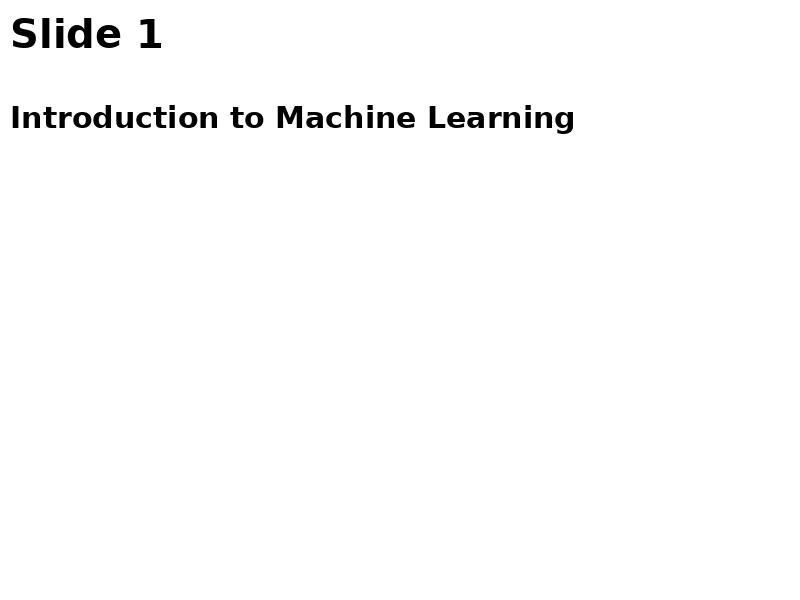
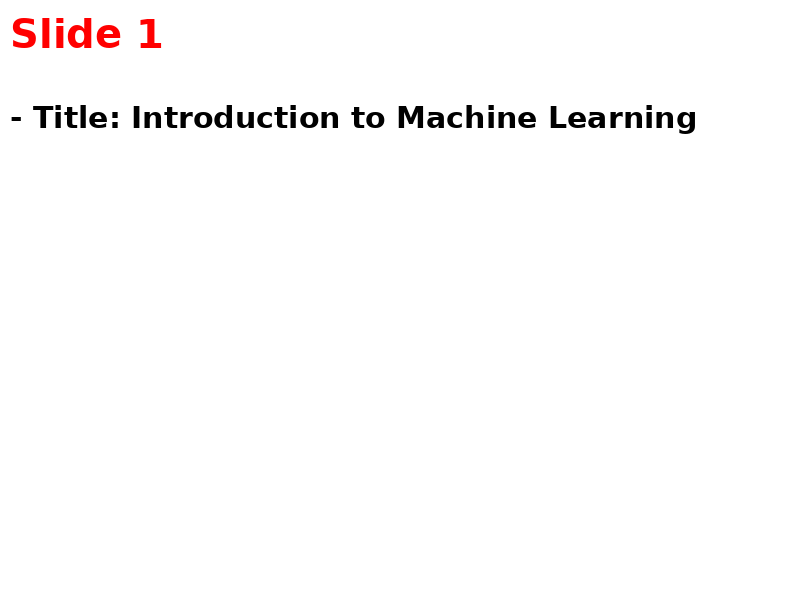
refactored

Changed region(s): [[0.0, 0.18, 0.875, 0.24], [0.0, 0.03, 0.2188, 0.09]]

diff --git a/slideGeniusApp/views.py b/slideGeniusApp/views.py
@@ -14,22 +14,15 @@ def generate_presentation(topic, num_slides):
             model="gpt-3.5-turbo",
             messages=[
                 {"role": "system", "content": "You are a helpful assistant."},
-                {"role": "user", "content": f"Create a summary presentation about '{topic}' consisting of {num_slides} slides."}
+                {"role": "user", "content": f"Create a summary presentation about '{topic}' consisting of {num_slides} slides with titles and bullet points."}
             ],
             max_tokens=1000,
             temperature=0.1
         )
-        slides_content = response.choices[0].message['content'].strip().split('\n')
+        slides_content = response.choices[0].message['content'].strip().split('\n\n')
 
         prs = Presentation()
         slide_layout = prs.slide_layouts[1]
-
-        for slide_content in slides_content:
-            if ':' in slide_content:
-                title, content = slide_content.split(':', 1)
-                slide = prs.slides.add_slide(slide_layout)
-                slide.shapes.title.text = title.strip()
-                slide.placeholders[1].text = content.strip()
 
         # Ensure the media directory exists
         media_dir = settings.MEDIA_ROOT
@@ -41,18 +34,48 @@ def generate_presentation(topic, num_slides):
         title_font = ImageFont.truetype(font_path, 40)  # Increase font size for title
         content_font = ImageFont.truetype(font_path, 30)  # Increase font size for content
 
-        # Convert slides to images
         slide_image_paths = []
-        for i, slide in enumerate(prs.slides):
-            image_path = os.path.join(media_dir, f"{topic}_slide_{i + 1}.png")
 
-            # Create a blank image
-            img = Image.new('RGB', (800, 600), color=(255, 255, 255))
-            d = ImageDraw.Draw(img)
-            d.text((10, 10), slide.shapes.title.text, font=title_font, fill=(0, 0, 0))
-            d.text((10, 100), slide.placeholders[1].text, font=content_font, fill=(0, 0, 0))
-            img.save(image_path)
-            slide_image_paths.append(image_path.replace(settings.MEDIA_ROOT, '').lstrip('/'))
+        # Define different styles for content titles
+        title_styles = [
+            {'title_color': (255, 0, 0)},  # Red
+            {'title_color': (0, 0, 255)},  # Blue
+            {'title_color': (0, 128, 0)},  # Green
+            {'title_color': (255, 165, 0)},  # Orange
+            # Add more styles as needed
+        ]
+
+        for i, slide_content in enumerate(slides_content):
+            if ':' in slide_content:
+                title, content = slide_content.split(':', 1)
+                slide = prs.slides.add_slide(slide_layout)
+                slide.shapes.title.text = f"Slide {i + 1}"
+
+                content_placeholder = slide.placeholders[1]
+                content_frame = content_placeholder.text_frame
+                p = content_frame.add_paragraph()
+                p.text = title.strip()
+                p.level = 0  # This makes it a bullet point
+
+                for line in content.strip().split('\n'):
+                    p = content_frame.add_paragraph()
+                    p.text = line.strip()
+                    p.level = 0  # This makes it a bullet point
+
+                # Apply content title styles
+                title_style = title_styles[i % len(title_styles)]
+                image_path = os.path.join(media_dir, f"{topic}_slide_{i + 1}.png")
+                img = Image.new('RGB', (800, 600), color=(255, 255, 255))  # White background
+                d = ImageDraw.Draw(img)
+                d.text((10, 10), title.strip(), font=title_font, fill=title_style['title_color'])
+
+                y_position = 100
+                for line in content.strip().split('\n'):
+                    d.text((10, y_position), f"- {line.strip()}", font=content_font, fill=(0, 0, 0))
+                    y_position += 40  # Adjust line height
+
+                img.save(image_path)
+                slide_image_paths.append(image_path.replace(settings.MEDIA_ROOT, '').lstrip('/'))
 
         return slide_image_paths
     except Exception as e:
